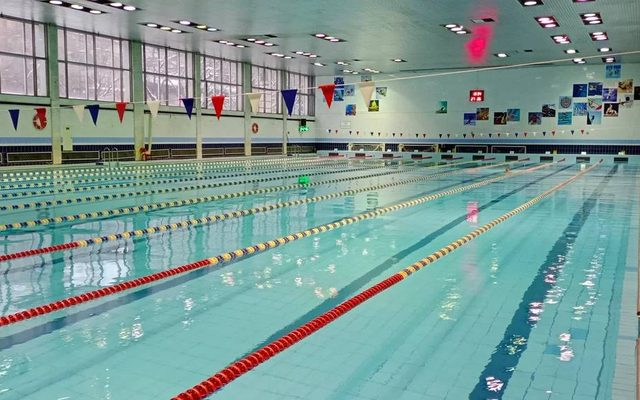
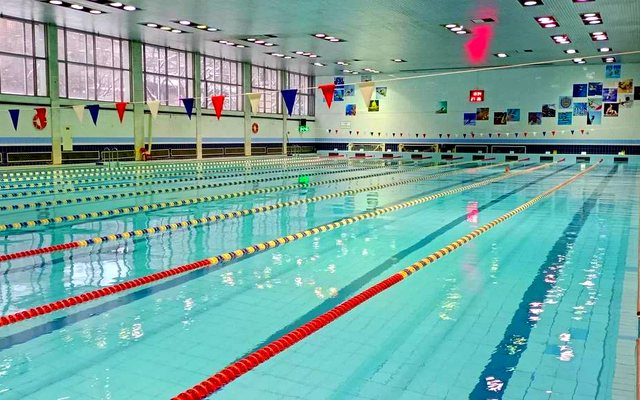
Фото бассейнов ярче и насыщеннее

diff --git a/index.html b/index.html
@@ -20,7 +20,7 @@
   <meta name="twitter:card" content="summary_large_image">
   <link rel="preload" href="fonts/inter-cyrillic.woff2" as="font" type="font/woff2" crossorigin>
     <script>document.documentElement.classList.add('js')</script>
-  <link rel="stylesheet" href="css/style.css?v=1789399627">
+  <link rel="stylesheet" href="css/style.css?v=1789399747">
   <script type="application/ld+json">
   {"@context": "https://schema.org", "@graph": [{"@type": "Person", "@id": "https://akifevav0-droid.github.io/shabarshov/#person", "name": "Анатолий Шабаршов", "jobTitle": "Тренер по плаванию", "description": "Мастер спорта по плаванию, тренер для взрослых. Групповые и персональные тренировки в Москве, подготовка к открытой воде и триатлону.", "url": "https://akifevav0-droid.github.io/shabarshov/", "image": "https://akifevav0-droid.github.io/shabarshov/img/anatoliy_hero.jpg", "sameAs": ["https://profi.ru/profile/ShabarshovAS/", "https://www.instagram.com/shabarshov_/", "https://t.me/shabarshov", "https://t.me/shabarshov_club"], "address": {"@type": "PostalAddress", "addressLocality": "Москва", "addressCountry": "RU"}, "alumniOf": ["Училище олимпийского резерва", "РГУФК (РГУФКСМиТ)"], "award": ["Мастер спорта по плаванию", "Всемирные игры Masters, Абу-Даби 2026: 2-е и 3-е места"]}, {"@type": "SportsOrganization", "@id": "https://akifevav0-droid.github.io/shabarshov/#club", "name": "SHABARSHOV swimming club", "url": "https://akifevav0-droid.github.io/shabarshov/", "founder": {"@id": "https://akifevav0-droid.github.io/shabarshov/#person"}, "areaServed": "Москва", "sport": "Плавание", "makesOffer": [{"@type": "Offer", "price": "0", "priceCurrency": "RUB", "itemOffered": {"@type": "Service", "name": "Пробная тренировка по плаванию"}}, {"@type": "Offer", "price": "13600", "priceCurrency": "RUB", "itemOffered": {"@type": "Service", "name": "Абонемент на 8 групповых тренировок"}}, {"@type": "Offer", "price": "7500", "priceCurrency": "RUB", "itemOffered": {"@type": "Service", "name": "Абонемент на 4 групповые тренировки"}}, {"@type": "Offer", "price": "2000", "priceCurrency": "RUB", "itemOffered": {"@type": "Service", "name": "Разовая групповая тренировка"}}, {"@type": "Offer", "price": "3000", "priceCurrency": "RUB", "description": "от 3 000 ₽ + проход в бассейн", "itemOffered": {"@type": "Service", "name": "Персональная тренировка по плаванию"}}, {"@type": "Offer", "price": "3500", "priceCurrency": "RUB", "description": "за час", "itemOffered": {"@type": "Service", "name": "Тренировка на открытой воде"}}]}, {"@type": "SportsActivityLocation", "@id": "https://akifevav0-droid.github.io/shabarshov/#pool1", "name": "Бассейн СК МГТУ им. Баумана", "sport": "Плавание", "parentOrganization": {"@id": "https://akifevav0-droid.github.io/shabarshov/#club"}, "address": {"@type": "PostalAddress", "streetAddress": "Госпитальная наб., 4, стр. 1", "addressLocality": "Москва", "addressCountry": "RU"}, "openingHoursSpecification": [{"@type": "OpeningHoursSpecification", "dayOfWeek": ["Monday", "Thursday"], "opens": "19:45"}, {"@type": "OpeningHoursSpecification", "dayOfWeek": ["Monday", "Thursday"], "opens": "20:30"}], "description": "Группы: 19:45 средний и продвинутый уровень, 20:30 начинающий и средний, м. Электрозаводская"}, {"@type": "SportsActivityLocation", "@id": "https://akifevav0-droid.github.io/shabarshov/#pool2", "name": "Формула Воды", "sport": "Плавание", "parentOrganization": {"@id": "https://akifevav0-droid.github.io/shabarshov/#club"}, "address": {"@type": "PostalAddress", "streetAddress": "Мироновская ул., 27, стр. 2", "addressLocality": "Москва", "addressCountry": "RU"}, "openingHoursSpecification": [{"@type": "OpeningHoursSpecification", "dayOfWeek": ["Tuesday", "Friday"], "opens": "20:45"}], "description": "Группа начинающего и среднего уровня, м. Семёновская"}, {"@type": "SportsActivityLocation", "@id": "https://akifevav0-droid.github.io/shabarshov/#pool3", "name": "Акватория ЗИЛ", "sport": "Плавание", "parentOrganization": {"@id": "https://akifevav0-droid.github.io/shabarshov/#club"}, "address": {"@type": "PostalAddress", "streetAddress": "Автозаводская ул., 23А к4", "addressLocality": "Москва", "addressCountry": "RU"}, "openingHoursSpecification": [{"@type": "OpeningHoursSpecification", "dayOfWeek": ["Wednesday", "Friday"], "opens": "07:45"}], "description": "Мини-группа до 5 человек"}, {"@type": "SportsActivityLocation", "@id": "https://akifevav0-droid.github.io/shabarshov/#pool4", "name": "Лужники", "sport": "Плавание", "parentOrganization": {"@id": "https://akifevav0-droid.github.io/shabarshov/#club"}, "address": {"@type": "PostalAddress", "addressLocality": "Москва", "addressCountry": "RU"}, "description": "Персональные тренировки по договорённости, м. Спортивная"}, {"@type": "FAQPage", "mainEntity": [{"@type": "Question", "name": "Я не умею плавать. С чего начать?", "acceptedAnswer": {"@type": "Answer", "text": "С бесплатной пробной тренировки. За первое занятие вы подружитесь с водой и станете увереннее. Дальше подберём формат: группу по уровню или персональные занятия."}}, {"@type": "Question", "name": "Что взять на первую тренировку?", "acceptedAnswer": {"@type": "Answer", "text": "Справку для бассейна (как получить, расскажу при записи), купальник или плавки, шапочку, очки, сланцы, полотенце."}}, {"@type": "Question", "name": "Как проходит тренировка?", "acceptedAnswer": {"@type": "Answer", "text": "Час в воде: разминка, основное задание, заминка. Я в воде рядом и показываю упражнения сам."}}, {"@type": "Question", "name": "Что, если пропущу занятие?", "acceptedAnswer": {"@type": "Answer", "text": "Предупредите заранее, и найдём, как отработать. Пропуск без предупреждения не переносится."}}]}]}
   </script>

diff --git a/css/style.css b/css/style.css
@@ -764,3 +764,4 @@ html { overflow-x: hidden; }
 @keyframes kb { from { transform: scale(1.001); } to { transform: scale(1.045); } }
 @media (max-width: 900px) { .slides .slide.is-on { animation: none; } .slides .slide { transition: opacity 1.4s ease !important; } }
 @media (prefers-reduced-motion: reduce) { .slides .slide.is-on { animation: none; } }
+.mpin__img, .pools__i img { filter: none !important; }

diff --git a/politika.html b/politika.html
@@ -7,7 +7,7 @@
   <meta name="robots" content="noindex, follow">
   <link rel="icon" href="img/icon-light.svg" type="image/svg+xml">
   <link rel="apple-touch-icon" href="img/icon-light-180.png">
-  <link rel="stylesheet" href="css/style.css?v=1789399627">
+  <link rel="stylesheet" href="css/style.css?v=1789399747">
 </head>
 <body class="page-doc">
 <header class="nav">
